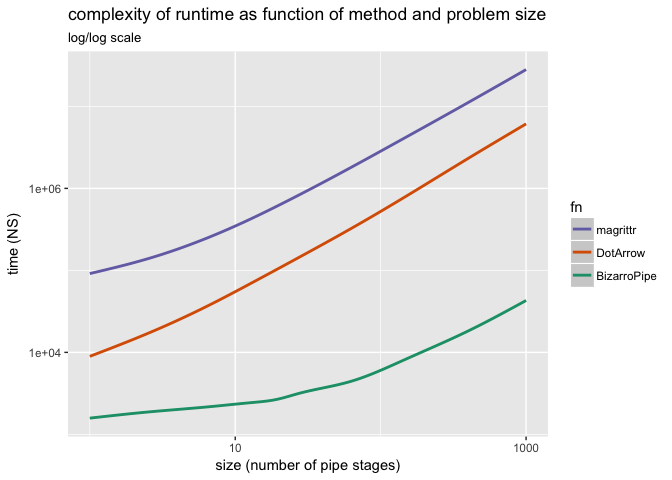
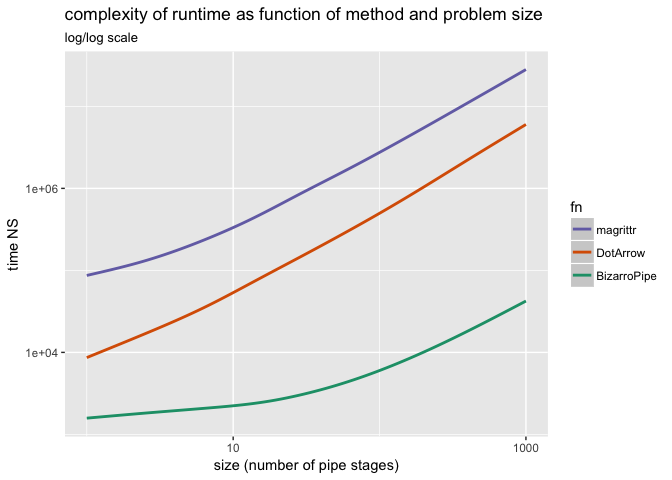
re-plot

diff --git a/extras/PipePerformance.md b/extras/PipePerformance.md
@@ -125,79 +125,79 @@ print(bm)
 
     ## Unit: nanoseconds
     ##                expr      min         lq         mean     median         uq
-    ##     BizarroPipe_1()      224     1374.0     3000.584     1582.0     1895.0
-    ##        DotArrow_1()     3717     6418.0    12062.863     8326.5    12500.0
-    ##        magrittr_1()    50312    65395.0   107375.008    85312.0   120950.0
-    ##     BizarroPipe_2()      285     1617.0     3828.481     1874.5     2237.5
-    ##        DotArrow_2()     7098    11138.0    17480.871    13395.0    18249.5
-    ##        magrittr_2()    75269    91045.5   137129.556   112958.0   157870.5
-    ##     BizarroPipe_5()      400     1855.5     5198.948     2110.0     2513.0
-    ##        DotArrow_5()    16747    23639.5    36028.055    27166.5    33076.5
-    ##        magrittr_5()   138650   163343.5   228081.179   189911.0   250294.0
-    ##    BizarroPipe_10()      605     2179.5     7753.477     2537.0     2980.0
-    ##       DotArrow_10()    34149    45100.5    66847.069    51079.0    59925.5
-    ##       magrittr_10()   244337   279283.0   374630.448   317948.5   393869.5
-    ##    BizarroPipe_15()      762     2071.5    11545.239     2352.0     2813.5
-    ##       DotArrow_15()    54016    67322.5   105121.946    74552.0    86306.0
-    ##       magrittr_15()   348138   395087.5   526553.973   437524.5   543987.0
-    ##    BizarroPipe_20()      971     2463.5    19952.843     2855.0     3418.5
-    ##       DotArrow_20()    71228    88482.0   124505.335    98250.5   112552.5
-    ##       magrittr_20()   451704   516358.5   668593.876   570338.0   696255.5
-    ##    BizarroPipe_25()     1107     2617.0    20045.347     2966.5     3488.5
-    ##       DotArrow_25()    89359   109514.5   159103.100   119995.0   139182.5
-    ##       magrittr_25()   556110   630239.5   818280.049   691886.0   857334.5
-    ##    BizarroPipe_50()     1967     3489.5    28566.306     3863.0     4419.5
-    ##       DotArrow_50()   181417   214834.5   304704.132   236130.0   288375.5
-    ##       magrittr_50()  1048641  1208136.5  1538654.395  1305545.0  1671243.5
-    ##   BizarroPipe_100()     3733     5468.0    71317.012     5870.0     6574.5
-    ##      DotArrow_100()   353504   430405.5   623184.370   470504.0   603389.0
-    ##      magrittr_100()  2113159  2367969.0  3053364.153  2530558.0  3352533.0
-    ##   BizarroPipe_200()     7218     9478.5   119341.102     9907.0    10630.5
-    ##      DotArrow_200()   741178   894144.5  1299342.444   963659.0  1264166.5
-    ##      magrittr_200()  4172799  4692202.5  5997901.289  5062331.0  6508388.5
-    ##   BizarroPipe_500()    17716    20660.5   273268.549    21273.0    22372.0
-    ##      DotArrow_500()  2182032  2429767.5  3146159.832  2615482.5  3465941.0
-    ##      magrittr_500() 10633947 11982111.0 14240211.168 13462193.0 15391922.0
-    ##  BizarroPipe_1000()    35192    39791.0   631318.523    40598.0    42161.0
-    ##     DotArrow_1000()  4595184  5073158.0  6281020.442  5472272.0  7202083.0
-    ##     magrittr_1000() 22044441 25621458.0 28611179.824 27223106.0 29519666.5
+    ##     BizarroPipe_1()      224     1456.0     3028.468     1716.0     2068.0
+    ##        DotArrow_1()     3606     6296.5    11296.372     8043.5    12000.0
+    ##        magrittr_1()    52211    61881.0    97921.153    78134.0   113014.0
+    ##     BizarroPipe_2()      280     1626.5     4300.036     1876.0     2203.0
+    ##        DotArrow_2()     6539    11125.5    18430.612    13469.0    18591.0
+    ##        magrittr_2()    74938    87578.0   128284.765   104058.0   144226.5
+    ##     BizarroPipe_5()      419     1838.0     8586.817     2116.0     2517.5
+    ##        DotArrow_5()    16669    23645.5    35724.839    26623.0    32285.5
+    ##        magrittr_5()   140997   158903.0   219690.548   185172.0   238438.0
+    ##    BizarroPipe_10()      576     1990.5     9570.262     2291.0     2691.5
+    ##       DotArrow_10()    35499    44865.0    70486.198    50407.5    58230.0
+    ##       magrittr_10()   243825   275742.5   358137.655   310144.0   370171.0
+    ##    BizarroPipe_15()      762     2113.5    17485.068     2441.5     2935.5
+    ##       DotArrow_15()    50319    66024.0    97642.487    72837.0    83993.5
+    ##       magrittr_15()   347678   395967.5   498992.854   439967.5   505985.0
+    ##    BizarroPipe_20()      936     2301.5    18904.232     2655.0     3137.5
+    ##       DotArrow_20()    71899    88174.0   126849.781    96956.0   109189.5
+    ##       magrittr_20()   453962   515434.5   659238.948   565808.0   655712.5
+    ##    BizarroPipe_25()     1108     2548.0    16374.421     2904.5     3504.5
+    ##       DotArrow_25()    90255   107883.0   178689.077   117539.0   132428.0
+    ##       magrittr_25()   555360   635962.5   868610.024   692523.5   819621.5
+    ##    BizarroPipe_50()     2015     3545.5    33183.461     3919.5     4477.5
+    ##       DotArrow_50()   171382   206916.0   385677.092   225937.5   260326.5
+    ##       magrittr_50()  1083284  1224776.0  1521985.645  1303377.5  1559205.5
+    ##   BizarroPipe_100()     3725     5451.5    58015.548     5862.5     6540.0
+    ##      DotArrow_100()   354725   416064.5   697291.211   453047.0   516655.0
+    ##      magrittr_100()  2125274  2376781.0  2889768.959  2504523.5  2995811.5
+    ##   BizarroPipe_200()     7232     9237.0   153575.795     9790.0    10612.0
+    ##      DotArrow_200()   710946   858683.0  1233831.116   930739.5  1160171.5
+    ##      magrittr_200()  4191558  4782150.5  5720562.327  5057867.0  6161918.5
+    ##   BizarroPipe_500()    17759    20691.0   342367.868    21357.5    22457.0
+    ##      DotArrow_500()  2162021  2425581.0  2944557.234  2568355.0  3226431.5
+    ##      magrittr_500() 10820195 12087366.5 14058924.672 13465332.5 15254981.0
+    ##  BizarroPipe_1000()    35103    39517.5   741656.471    40405.0    42584.0
+    ##     DotArrow_1000()  4588653  5070909.0  6172572.879  5364865.0  7072312.5
+    ##     magrittr_1000() 22425031 25855055.5 28538542.729 27675210.0 29454363.5
     ##        max neval
-    ##    1295491  1000
-    ##    2189031  1000
-    ##    5910495  1000
-    ##    1879219  1000
-    ##    2176748  1000
-    ##    2181043  1000
-    ##    3034347  1000
-    ##    3998917  1000
-    ##    5026379  1000
-    ##    5162521  1000
-    ##    7438299  1000
-    ##    7256077  1000
-    ##    9100085  1000
-    ##   17719805  1000
-    ##   13056462  1000
-    ##   17000750  1000
-    ##   13719427  1000
-    ##   13262876  1000
-    ##   16839046  1000
-    ##   16674835  1000
-    ##   19016158  1000
-    ##   24457359  1000
-    ##   36997513  1000
-    ##   34917205  1000
-    ##   65075865  1000
-    ##   68372797  1000
-    ##   69574299  1000
-    ##  108778228  1000
-    ##  142137236  1000
-    ##  144707759  1000
-    ##  250883136  1000
-    ##   59691751  1000
-    ##   87983616  1000
-    ##  588172371  1000
-    ##   15868854  1000
-    ##  100727045  1000
+    ##    1299179  1000
+    ##    1954328  1000
+    ##    2204271  1000
+    ##    2330361  1000
+    ##    3250646  1000
+    ##    3475298  1000
+    ##    6427700  1000
+    ##    6346690  1000
+    ##   11096358  1000
+    ##    7098441  1000
+    ##   12766802  1000
+    ##    7328721  1000
+    ##   14959734  1000
+    ##   13455706  1000
+    ##   18590050  1000
+    ##   16161281  1000
+    ##   18389435  1000
+    ##   21022635  1000
+    ##   13340910  1000
+    ##   45072878  1000
+    ##   58478566  1000
+    ##   29117284  1000
+    ##   62158809  1000
+    ##   56010384  1000
+    ##   51894755  1000
+    ##  121443622  1000
+    ##   83520050  1000
+    ##  143402276  1000
+    ##  149967485  1000
+    ##  174265324  1000
+    ##  320129689  1000
+    ##   12215359  1000
+    ##   72601294  1000
+    ##  698985083  1000
+    ##   20369501  1000
+    ##   87552746  1000
 
 ``` r
 autoplot(bm)
@@ -233,12 +233,12 @@ ggplot(d, aes(x=fn, y=time, color=fn)) +
 d$fn <- reorder(d$fn, -d$time)
 ggplot(d, aes(x=size, y=time, color=fn)) +
   geom_smooth() +
-  scale_y_log10('time (NS)') +
-  scale_x_log10('size (number of pipe stages)') +
+  scale_y_log10() +
+  scale_x_log10() +
   scale_color_manual(values = c(magrittr='#7570b3',
                                 DotArrow='#d95f02',
                                 BizarroPipe='#1b9e77')) +
-  xlab("method") +
+  xlab('size (number of pipe stages)') +
   ylab("time NS") +
   ggtitle("complexity of runtime as function of method and problem size",
           subtitle = "log/log scale")
@@ -295,17 +295,10 @@ dfits <- d %.>%
 print(dfits)
 ```
 
-    ##        method        coef    Estimate  Std. Error      t value
-    ## 1 BizarroPipe (Intercept)   1080.5444 62278.56097   0.01735018
-    ## 2 BizarroPipe        size    613.1587   188.93411   3.24535701
-    ## 3    DotArrow (Intercept)   5446.8735 17664.54518   0.30835063
-    ## 4    DotArrow        size   6281.2230    53.58883 117.21142408
-    ## 5    magrittr (Intercept) 115736.2879 29700.14544   3.89682563
-    ## 6    magrittr        size  28481.9084    90.10116 316.11033776
-    ##       Pr(>|t|)
-    ## 1 9.861575e-01
-    ## 2 1.176250e-03
-    ## 3 7.578209e-01
-    ## 4 0.000000e+00
-    ## 5 9.799139e-05
-    ## 6 0.000000e+00
+    ##        method        coef   Estimate  Std. Error       t value    Pr(>|t|)
+    ## 1 BizarroPipe (Intercept)  -104.8383 74864.65818  -0.001400371 0.998882689
+    ## 2 BizarroPipe        size   730.4494   227.11648   3.216188532 0.001302499
+    ## 3    DotArrow (Intercept) 17321.8487 22163.65965   0.781542804 0.434498733
+    ## 4    DotArrow        size  6102.2753    67.23777  90.756661231 0.000000000
+    ## 5    magrittr (Intercept) 72776.6444 29194.32930   2.492834950 0.012686150
+    ## 6    magrittr        size 28364.8032    88.56667 320.264986289 0.000000000
